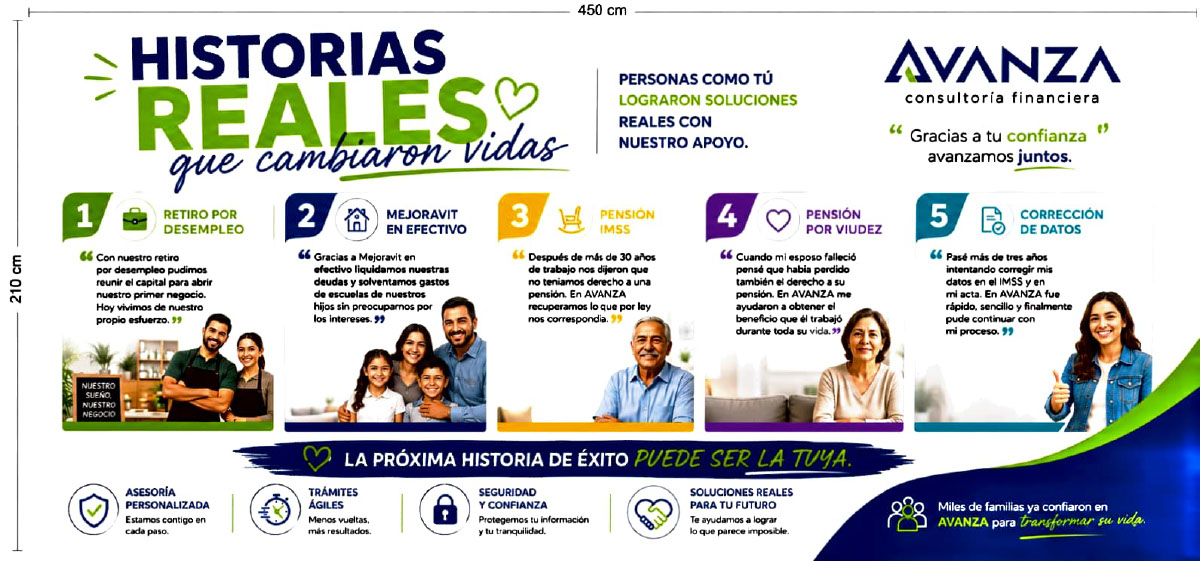
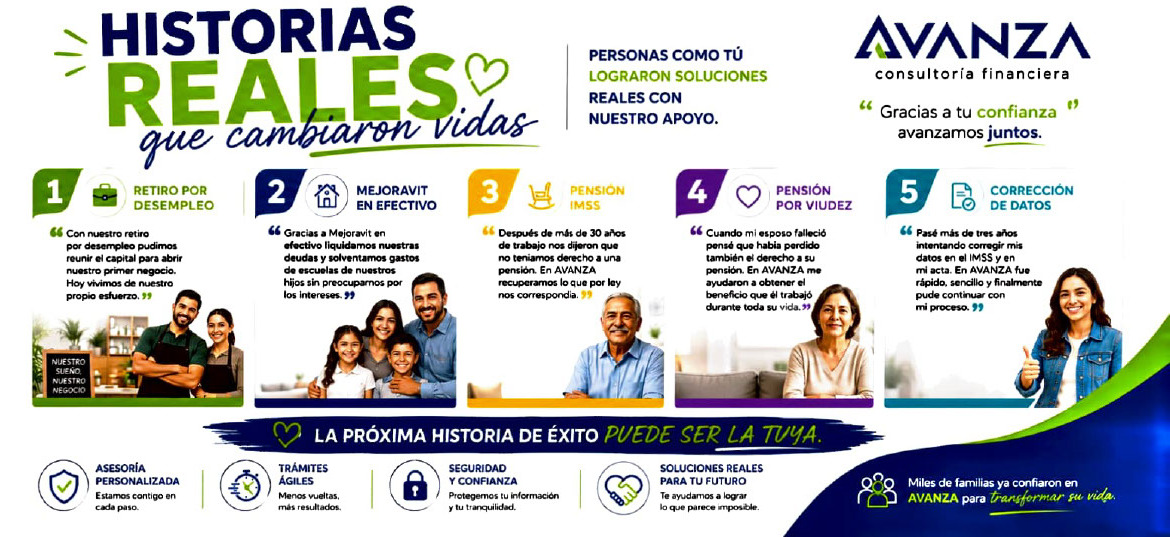
actualizando pagina

diff --git a/index.html b/index.html
@@ -45,7 +45,7 @@
     "@type": "FinancialService",
     "name": "AVANZA Consultoría Financiera",
     "description": "Consultoría financiera que acompaña en el retiro de Afore por desempleo, pensión IMSS, pensión por viudez, Mejoravit en efectivo y corrección de datos, con prevalidación y asesoría gratuita.",
-    "telephone": "+524424536038",
+    "telephone": "+524424610916",
     "address": {
       "@type": "PostalAddress",
       "streetAddress": "Plaza Alameda",
@@ -633,10 +633,9 @@
       </div>
 
       <div class="expandir" data-expandir>
-        <button class="expandir__lienzo" type="button" data-ampliar="assets/img/historias-reales.jpg" data-alt="Lona de AVANZA Historias reales que cambiaron vidas: retiro por desempleo, Mejoravit en efectivo, pensión IMSS, pensión por viudez y corrección de datos" aria-label="Ampliar la lona Historias reales que cambiaron vidas">
-          <img src="assets/img/historias-reales.jpg" width="1200" height="561" loading="lazy" alt="Lona de AVANZA Historias reales que cambiaron vidas: retiro por desempleo, Mejoravit en efectivo, pensión IMSS, pensión por viudez y corrección de datos">
-          <span class="expandir__pista"><svg class="ico" viewBox="0 0 24 24" aria-hidden="true"><use href="#i-plus"/></svg> Toca para ver en grande</span>
-        </button>
+        <div class="expandir__lienzo">
+          <img src="assets/img/historias-reales.jpg" width="1170" height="537" loading="lazy" alt="Lona de AVANZA Historias reales que cambiaron vidas: retiro por desempleo, Mejoravit en efectivo, pensión IMSS, pensión por viudez y corrección de datos">
+        </div>
       </div>
 
       <div class="relatos" aria-label="Relatos de la lona Historias reales de AVANZA">

diff --git a/script.js b/script.js
@@ -12,7 +12,7 @@
      Si se deja vacío, el botón flotante, los CTA y el envío del formulario
      se ocultan con elegancia.
      --------------------------------------------------------------------- */
-  const WHATSAPP_NUMERO = '524424536038';
+  const WHATSAPP_NUMERO = '524424610916';
   const MENSAJE_BASE = 'Hola, vi la página de AVANZA y quiero información.';
 
   /* ---------- Utilidades ---------- */

diff --git a/styles.css b/styles.css
@@ -2016,7 +2016,7 @@ html:not(.anime-ok) .tarjeta__in {
   border: 0;
   border-radius: calc((1 - var(--p, 1)) * 36px + 10px);
   background: #fff;
-  cursor: zoom-in;
+  cursor: default;
   transform: rotateX(calc((1 - var(--p, 1)) * 16deg)) scale(calc(0.74 + var(--p, 1) * 0.26));
   transform-origin: 50% 60%;
   box-shadow: 0 70px 110px -44px rgba(2, 19, 64, 0.6), 0 0 0 1px rgba(2, 19, 64, 0.08);
